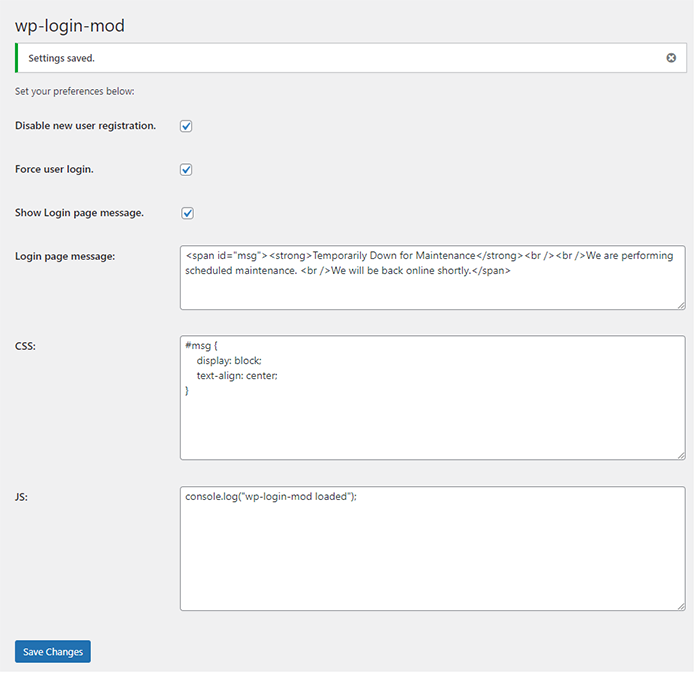
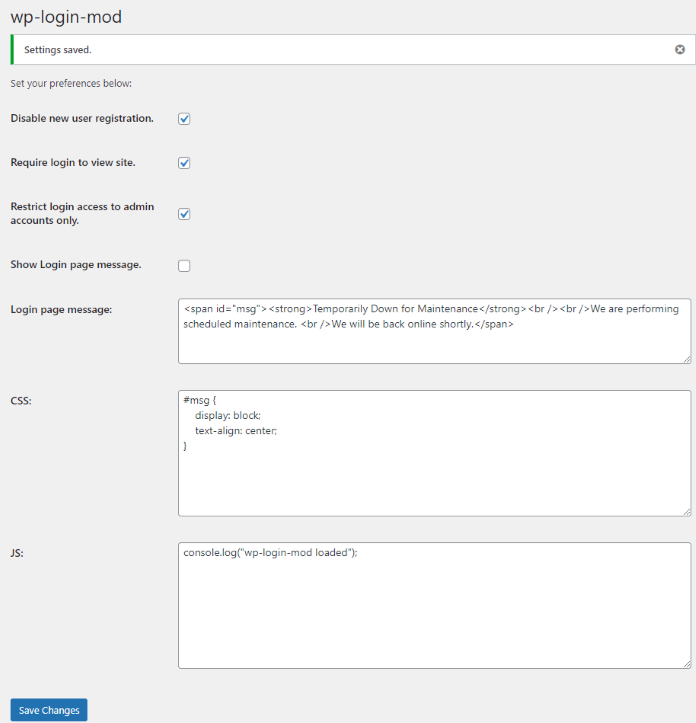
Added new option, restric login to admins

diff --git a/wp-login-mod.php b/wp-login-mod.php
@@ -12,6 +12,32 @@
      * License URI:       https://www.gnu.org/licenses/gpl-3.0.html
      */
 
+    function wpLoaded() 
+    {
+        //if admin access only is turned off bail
+        if(get_option('wp-login-mod-options')['adm'] != "1") return;
+
+        $current_user = wp_get_current_user();
+
+        //!current_user_can('administrator')
+        if (is_user_logged_in()  &&  !in_array('administrator', $current_user->roles))
+        {
+            //wp_logout();
+            wp_redirect('https://' . $_SERVER['HTTP_HOST'] . "/wp-login.php?action=disabled");
+        }
+    }
+    function loginMessage($message) 
+    {
+        $action = isset( $_REQUEST['action'] ) ? $_REQUEST['action'] : '';
+
+        if($action == "disabled")
+        {
+            $message = '<div id="login_error">Login Temporarily Disabled.</div>';
+            wp_logout();
+        }
+
+        return $message;
+    }
     function forceLogin()
     {
         //if force login is turned off bail
@@ -92,7 +118,8 @@
         register_setting('wp-login-mod-group','wp-login-mod-options', 'sanitize');
         add_settings_section('sectionOne','','sectionTitle' , 'wp-login-mod-admin');  
         add_settings_field('reg','Disable new user registration.','reg_callback' ,'wp-login-mod-admin','sectionOne');
-        add_settings_field('log','Force user login.','log_callback' ,'wp-login-mod-admin','sectionOne');
+        add_settings_field('log','Require login to view site.','log_callback' ,'wp-login-mod-admin','sectionOne');
+        add_settings_field('adm','Restrict login access to admin accounts only.','adm_callback' ,'wp-login-mod-admin','sectionOne');
         add_settings_field('sho','Show Login page message.','sho_callback' ,'wp-login-mod-admin','sectionOne');
         add_settings_field('msg','Login page message:','msg_callback' ,'wp-login-mod-admin','sectionOne');
         add_settings_field('css','CSS:','css_callback' ,'wp-login-mod-admin','sectionOne');
@@ -108,6 +135,7 @@
         isset($input['reg']) ? $new_input['reg'] = "1" : $new_input['reg'] = "0";
         isset($input['log']) ? $new_input['log'] = "1" : $new_input['log'] = "0";
         isset($input['sho']) ? $new_input['sho'] = "1" : $new_input['sho'] = "0";
+        isset($input['adm']) ? $new_input['adm'] = "1" : $new_input['adm'] = "0";
         return $new_input;
     }
     //call back functions for settings on options page
@@ -117,24 +145,23 @@
     }
     function reg_callback()
     {
-        $enabled = "0";
-        if(isset( get_option('wp-login-mod-options')['reg']) && get_option('wp-login-mod-options')['reg'] == "1")
-            $enabled = "1";
+        $enabled = get_option('wp-login-mod-options')['reg'];
         echo '<input type="checkbox" id="reg" name="wp-login-mod-options[reg]" value="1" '. (($enabled == "1") ? "checked" : "") .'>';
     }
     function log_callback()
     {
-        $enabled = "0";
-        if(isset( get_option('wp-login-mod-options')['log']) && get_option('wp-login-mod-options')['log'] == "1")
-            $enabled = "1";
+        $enabled = get_option('wp-login-mod-options')['log'];
         echo '<input type="checkbox" id="log" name="wp-login-mod-options[log]" value="1" '. (($enabled == "1") ? "checked" : "") .'>';
     }
     function sho_callback()
     {
-        $enabled = "0";
-        if(isset( get_option('wp-login-mod-options')['sho']) && get_option('wp-login-mod-options')['sho'] == "1")
-            $enabled = "1";
+        $enabled = get_option('wp-login-mod-options')['sho'];
         echo '<input type="checkbox" id="sho" name="wp-login-mod-options[sho]" value="1" '. (($enabled == "1") ? "checked" : "") .'>';
+    }
+    function adm_callback()
+    {
+        $enabled = get_option('wp-login-mod-options')['adm'];
+        echo '<input type="checkbox" id="adm" name="wp-login-mod-options[adm]" value="1" '. (($enabled == "1") ? "checked" : "") .'>';
     }
     function msg_callback()
     {
@@ -156,10 +183,12 @@
     {
         update_option( 'users_can_register', 0 );
     }
+    add_action('wp_loaded', 'wpLoaded');
     add_action('init', 'forceLogin');
     add_action('login_head', 'loginHead');//Fires in the login page header after scripts are enqueued.
     add_action('login_footer', 'loginFooter');//Fires in the login page footer.
-    add_action( 'admin_menu','addOptionsPage');
-    add_action( 'admin_init','pageInit');
+    add_action('admin_menu','addOptionsPage');
+    add_action('admin_init','pageInit');
     add_filter('plugin_action_links_' . plugin_basename(__FILE__),'pluginActionLinks');
+    add_filter('login_message', 'loginMessage',10,1);
 ?>

diff --git a/README.md b/README.md
@@ -28,7 +28,7 @@ Totally configurable. You can customize the entire login page by inserting your 
 <p align="center">
 <img src="https://raw.githubusercontent.com/keytonic/wp-login-mod/main/images/1.png"
   alt="Easy to configure"
-  width="696" height="674">
+  width="696" height="723">
 </p>
 
 <br />
